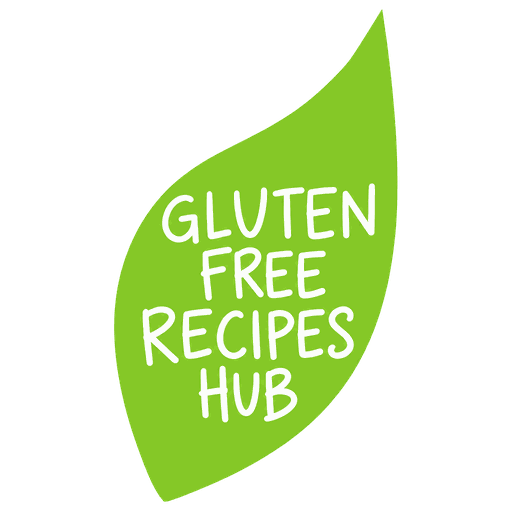
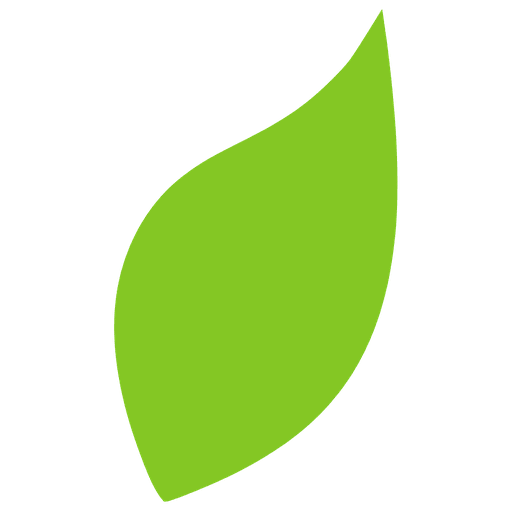
Use a clean text-free leaf and the Gluten-Free Recipes name
- Remove the lettering from the leaf in the logo, favicons, Apple icon and manifest icons
- Header shows the leaf next to the site name only (subtitle removed), on one line down to 320px
- Default site name is now "Gluten-Free Recipes" instead of the Crumb & Clover placeholder

Claude-Session: https://claude.ai/code/session_019J2Cdx8jUCXQYbQoZo8xvR

Changed region(s): [[0.2812, 0.3438, 0.75, 0.8438]]

diff --git a/src/components/site/logo.tsx b/src/components/site/logo.tsx
@@ -3,7 +3,7 @@ import Link from "next/link";
 import { siteConfig } from "@/lib/env";
 import logoLeaf from "./logo-leaf.png";
 
-// The green leaf brand logo. The PNG is already resized and compressed (about 4 KB,
+// The clean green leaf brand logo (no lettering). The PNG is already resized and compressed (about 4 KB,
 // see scripts/branding/), so it's served as is: Next's re-encoding would only blur it.
 export function LogoMark({ className = "", preload = false }: { className?: string; preload?: boolean }) {
   return (
@@ -21,11 +21,8 @@ export function LogoMark({ className = "", preload = false }: { className?: stri
 export function Logo() {
   return (
     <Link href="/" className="group flex items-center gap-2.5" aria-label={`${siteConfig.name} home`}>
-      <LogoMark preload className="h-13 w-auto shrink-0 transition-transform duration-300 group-hover:-rotate-12" />
-      <span className="flex flex-col leading-none">
-        <span className="font-serif text-[1.35rem] font-semibold tracking-tight text-ink">{siteConfig.name}</span>
-        <span className="mt-1 text-[0.625rem] font-semibold uppercase tracking-[0.2em] text-sage">Gluten-free kitchen</span>
-      </span>
+      <LogoMark preload className="h-10 w-auto shrink-0 transition-transform duration-300 group-hover:-rotate-12" />
+      <span className="font-serif text-[1.35rem] font-semibold leading-none max-[359px]:text-[1.15rem] tracking-tight whitespace-nowrap text-ink">{siteConfig.name}</span>
     </Link>
   );
 }

diff --git a/src/lib/env.ts b/src/lib/env.ts
@@ -18,7 +18,7 @@ export function resolveSiteUrl(env: Record<string, string | undefined> = process
 }
 
 export const siteConfig = {
-  name: process.env.NEXT_PUBLIC_SITE_NAME?.trim() || "Crumb & Clover",
+  name: process.env.NEXT_PUBLIC_SITE_NAME?.trim() || "Gluten-Free Recipes",
   tagline: "Gluten-free recipes made simple",
   url: resolveSiteUrl(),
   locale: "en_US",

diff --git a/scripts/branding/make-logo-assets.py b/scripts/branding/make-logo-assets.py
@@ -1,4 +1,4 @@
-"""Build the logo and favicon files from the original PNG.
+"""Build the clean (text-free) leaf logo and favicon files from the original PNG.
 Usage: python3 -I make_logo.py <source.png> <out_dir>
 """
 import io, os, sys
@@ -29,6 +29,9 @@ safe = np.maximum(alpha, 1e-3)[..., None]
 unblend = np.clip((rgb - (1 - alpha[..., None]) * 255) / safe, 0, 255)
 color[band] = unblend[band]
 color[band & (alpha < 0.15)] = GREEN
+# The leaf is a flat green, so paint the whole interior that green: this removes
+# the white lettering and leaves a clean, text-free leaf.
+color[~band] = GREEN
 rgba = np.dstack([color, alpha * 255]).round().astype(np.uint8)
 img = Image.fromarray(rgba, "RGBA")
 img = img.crop(img.getchannel("A").point(lambda v: 255 if v > 8 else 0).getbbox())

diff --git a/docs/SETUP.md b/docs/SETUP.md
@@ -33,7 +33,7 @@ Copy `.env.example` to `.env.local` for local development. In Vercel, add the sa
 | Variable | Required | Where to find it |
 | --- | --- | --- |
 | `NEXT_PUBLIC_SITE_URL` | Yes | Your production URL: `https://www.glutenfreerecipehub.com` (no trailing slash). Set it for Production only |
-| `NEXT_PUBLIC_SITE_NAME` | Recommended | Brand name. Defaults to "Crumb & Clover" |
+| `NEXT_PUBLIC_SITE_NAME` | Recommended | Brand name. Defaults to "Gluten-Free Recipes" |
 | `NEXT_PUBLIC_SUPABASE_URL` | Yes | Supabase → Project Settings → API → Project URL |
 | `NEXT_PUBLIC_SUPABASE_PUBLISHABLE_KEY` | Yes | Supabase → Project Settings → API Keys → publishable key (or set `NEXT_PUBLIC_SUPABASE_ANON_KEY` with the legacy anon key) |
 | `NEXT_PUBLIC_CONTACT_EMAIL` | Optional | Shown on Contact and Privacy pages |
